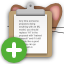
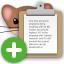
Ask ChatGPT 4.5.3
- playing around with icons again
- minor preset adjustment

diff --git a/Ask-ChatGPT/AskChatGPT.lbaction/Contents/Scripts/default.js b/Ask-ChatGPT/AskChatGPT.lbaction/Contents/Scripts/default.js
@@ -95,11 +95,13 @@ function options(item) {
   const badge = preset?.id === 'none' ? undefined : preset?.title.localize();
   const label = model ? `${model}${effort ? ` (${effort})` : ''}` : undefined;
 
+  const newChatIcon = preset ? preset.icon : getDefaultPreset().icon;
+
   const newChat = {
     title: 'New Chat'.localize(),
     subtitle: `Prompt: ${argument}`,
     alwaysShowsSubtitle: true,
-    icon: 'weasel_blank',
+    icon: newChatIcon,
     badge,
     label,
     action: 'ask',
@@ -147,7 +149,7 @@ function options(item) {
           title: `${'Continue Chat'.localize()}: "${recentChatInfo.title}"`,
           subtitle: `Prompt: ${argument}`,
           alwaysShowsSubtitle: true,
-          icon: 'weasel_text',
+          icon: 'weasel_bubble_dots',
           action: 'ask',
           actionArgument: {
             argument,